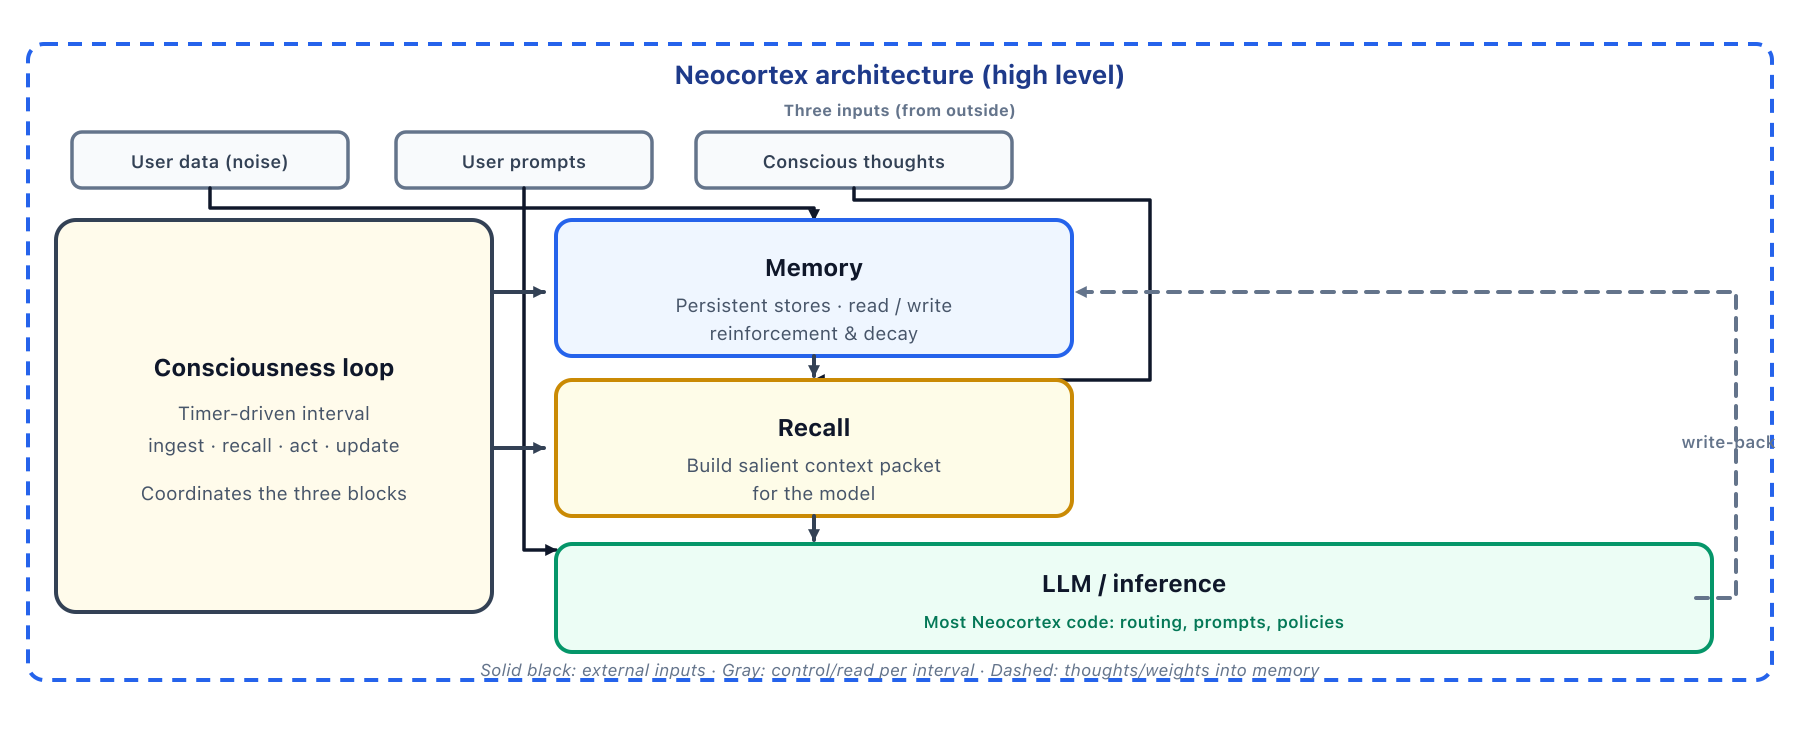
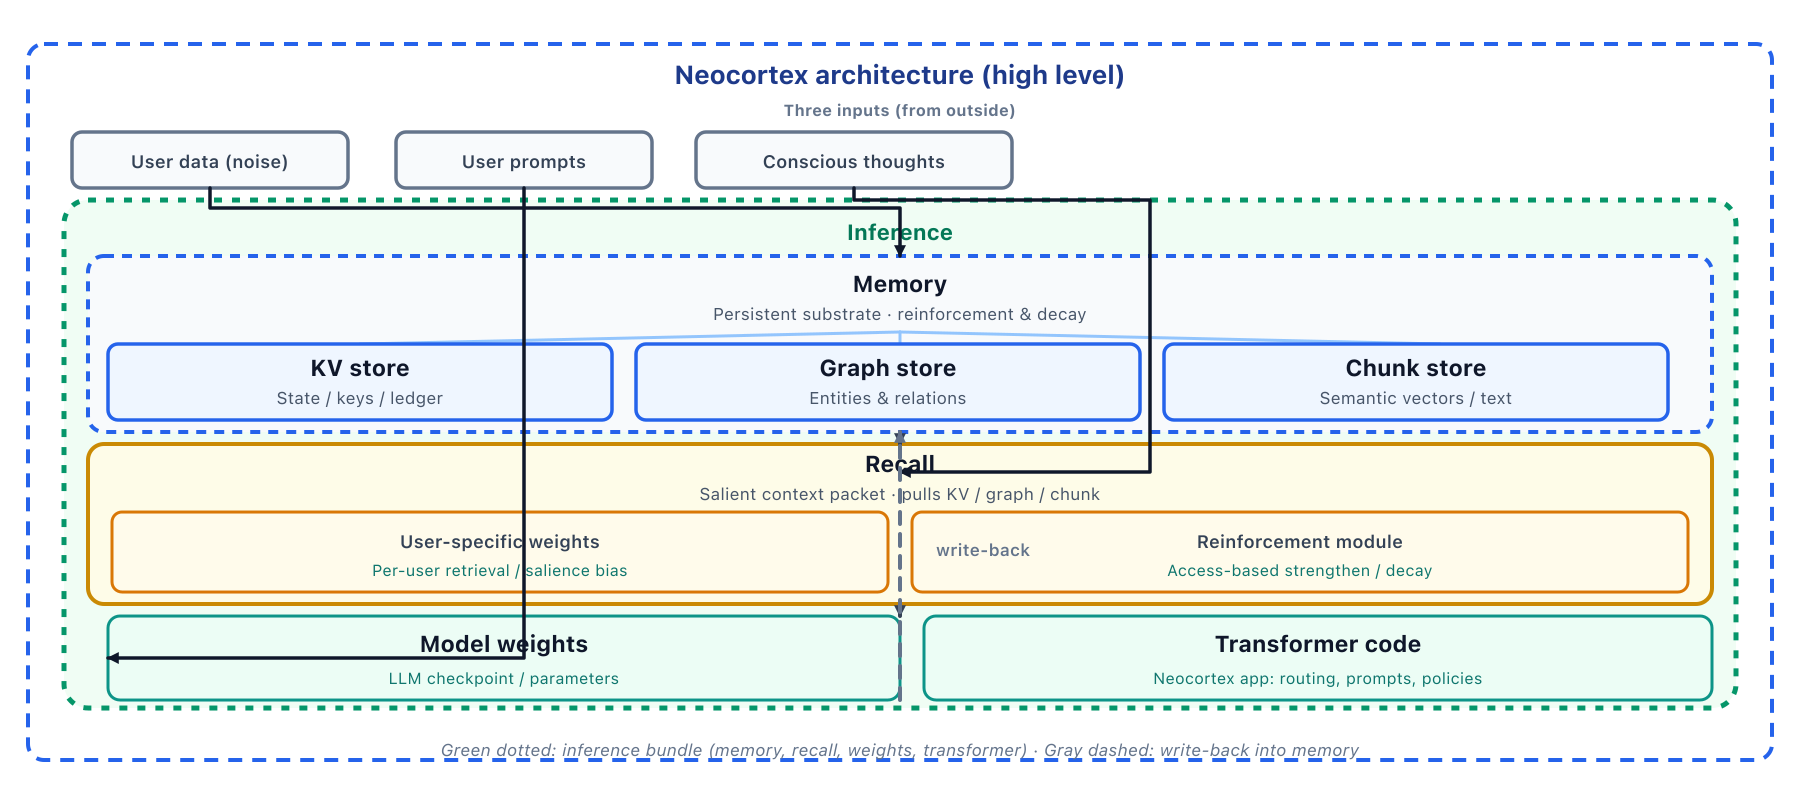
Update Neocortex paper with refined architecture details and enhanced figure descriptions
- Revised the figure caption in main.tex to clarify the roles of memory, model weights, and recall within the inference bundle.
- Updated the README.md to reflect changes in the figure description and improve clarity regarding the architecture's components.
- Enhanced the consciousness architecture figure in SVG format to better represent the system's structure and interactions.

Changed region(s): [[0.0, 0.0312, 0.9956, 0.9688]]

diff --git a/paper/main.tex b/paper/main.tex
@@ -73,7 +73,7 @@ token budgets. Memory is substrate for continuity, not the end goal.
 \begin{figure}[H]
   \centering
   \includegraphics[width=\linewidth,height=0.36\textheight,keepaspectratio]{figures/consciousness-architecture.png}
-  \caption{Three external inputs---\textbf{user data (noise)}, \textbf{user prompts}, and \textbf{conscious thoughts}---feed \textbf{memory}, \textbf{LLM/inference}, and \textbf{recall} respectively; the \textbf{consciousness loop} coordinates the stack each interval. Dashed path: write-back into memory; most code sits in inference.}
+  \caption{Three external inputs feed \textbf{memory}, \textbf{model weights / transformer}, and \textbf{recall} (with \textbf{user-specific weights} and a \textbf{reinforcement module}), all inside the dotted \textbf{inference} bundle. Dashed path: write-back into memory.}
   \label{fig:consciousness-architecture}
 \end{figure}
 \endgroup
@@ -133,8 +133,8 @@ consolidation over time.
 
 This paper introduces \textbf{Neocortex}, a product-level architecture for
 artificial consciousness that uses adaptive memory as its substrate.
-Figure~\ref{fig:consciousness-architecture} summarizes the repeating interval
-at a high level. It
+Figure~\ref{fig:consciousness-architecture} summarizes the inference stack and
+external inputs at a high level. It
 unifies these strands into a single operational
 pipeline. Neocortex continuously ingests new experience into structured
 memory and recalls context through a blend of semantic relevance,

diff --git a/paper/README.md b/paper/README.md
@@ -39,7 +39,7 @@ We present **Neocortex**, a multi-store memory architecture for inference-time a
 
 <figure id="fig:consciousness-architecture" data-latex-placement="H">
 <img src="figures/consciousness-architecture.png" />
-<figcaption>Three inputs (noise, prompts, conscious thoughts) feed memory, LLM, and recall; the consciousness loop coordinates the stack. Dashed path is write-back into memory.</figcaption>
+<figcaption>Dotted inference bundle: memory (KV, graph, chunk), recall (user-specific weights, reinforcement module), model weights, transformer code. Three external inputs; dashed path is write-back to memory.</figcaption>
 </figure>
 
 # Introduction
@@ -52,7 +52,7 @@ The human brain faces an extreme noise problem: it continuously receives high-vo
 
 Viewed against this biological backdrop, current LLM systems often remain non-human-like in memory behavior for three interrelated reasons. First, they frequently lack strong **selective gating**, so too much irrelevant context enters the active reasoning path. Second, they lack robust **adaptive forgetting**, so memory either accumulates noise or loses important details without principled reinforcement. Third, they typically lack an **always-on subconscious loop** that continuously consolidates, reweights, and organizes experience between explicit tasks. Any path toward more human-like memory therefore requires all three: integration with gating, retention with controlled decay, and background consolidation over time.
 
-This paper introduces **Neocortex**, a product-level architecture for artificial consciousness that uses adaptive memory as its substrate. Figure <a href="#fig:consciousness-architecture" data-reference-type="ref" data-reference="fig:consciousness-architecture">1</a> summarizes the repeating interval at a high level. It unifies these strands into a single operational pipeline. Neocortex continuously ingests new experience into structured memory and recalls context through a blend of semantic relevance, recency, interaction history, and surprise-weighted salience. At write time, the system parses documents into chunks, extracts entities and relations, persists them in graph/vector memory, and appends explicit state transitions to an event ledger. At recall time, the system routes queries either to broad semantic retrieval or to a deterministic state resolver when the question targets ordered state transitions. Memory is further modulated by reinforcement through access patterns and by Ebbinghaus-style forgetting dynamics.
+This paper introduces **Neocortex**, a product-level architecture for artificial consciousness that uses adaptive memory as its substrate. Figure <a href="#fig:consciousness-architecture" data-reference-type="ref" data-reference="fig:consciousness-architecture">1</a> summarizes the inference stack and external inputs at a high level. It unifies these strands into a single operational pipeline. Neocortex continuously ingests new experience into structured memory and recalls context through a blend of semantic relevance, recency, interaction history, and surprise-weighted salience. At write time, the system parses documents into chunks, extracts entities and relations, persists them in graph/vector memory, and appends explicit state transitions to an event ledger. At recall time, the system routes queries either to broad semantic retrieval or to a deterministic state resolver when the question targets ordered state transitions. Memory is further modulated by reinforcement through access patterns and by Ebbinghaus-style forgetting dynamics.
 
 Our main claim is that artificial consciousness requires a **multi-store adaptive memory substrate** rather than a passive retrieval index. In particular, efficient token use requires not only better retrieval, but also mechanisms for forgetting noise, amplifying informative novelty, and separating semantic context from ordered state so that stable internal state can emerge across time.
 
